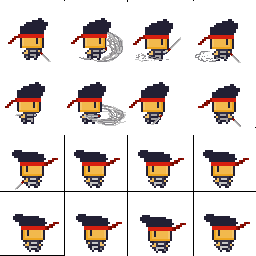
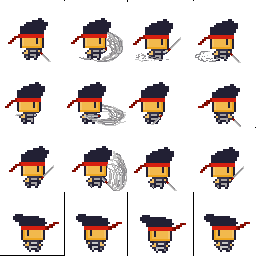
write code for downward swing, write code for moveset implementation, refactored some code to allow for better attack animation

Changed region(s): [[0.0, 0.5312, 1.0, 0.75]]

diff --git a/src/main.js b/src/main.js
@@ -1,5 +1,6 @@
 import { collisions , interacts} from "../data/collisions";
-import { Boundary, Sprite, Item } from "./classes";
+import { Boundary, Sprite } from "./classes";
+import { Moveset } from "./moveset";
 import { displayDialogue } from "./utils";
 
 const canvas = document.querySelector('canvas');
@@ -50,6 +51,9 @@ interactsMap.forEach((row, i) => {
             interactors.push(new Boundary({id: symbol ,position: {x: j*Boundary.width + offset.x, y: i*Boundary.height +offset.y}, context: context}))
     })
 })
+
+const basic = new Moveset({sequence:"illillill", sprite:attackImage})
+const test = new Moveset({sequence:'jkl', sprite:attackImage})
 
 const player = new Sprite({
     position: {
@@ -102,6 +106,19 @@ const keys = {
         pressed: false
     }
 }
+
+var pressed = ""
+
+function moveset({moveset}){
+    console.log(pressed)
+    const sequence = moveset.sequence
+    if ( sequence === pressed){
+        player.image = moveset.sprite
+        player.frames.valy = 3
+    }
+}
+
+
 const movables = [background, ...boundaries, foreground, ...interactors]
 const camera = [background,foreground]
 function rectCollision({rectangle1, rectangle2}){
@@ -124,6 +141,7 @@ function animate() {
     player.moving = false
     player.sizef.max = 0.25
     player.frames.max = 4
+    player.key = ''
     if ((keys.w.pressed) && (lastkey === 'w')) {
         player.image = playerImage
         player.moving = true
@@ -254,24 +272,31 @@ function animate() {
                 movable.position.y -= 3;
             })
         }
-    }else if (keys.i.pressed ){
+    }else if (keys.i.pressed && lastkey === 'i'){
         player.image = player.sprites
-        player.frames.valy = 0
-        player.frames.valx = 1
-        player.sizef.max = 0.25
+        player.key = 'i'
         
     }else if (keys.l.pressed ){
         player.image = player.sprites
-        player.frames.valy = 1
-        player.frames.valx = 1
-        player.sizef.max = 0.25
+        player.key = 'l'
+       
+    } else if (keys.k.pressed){
+        player.image = player.sprites
+        player.key = 'k'
+    }
+    if (pressed.length > 0){
+        const ms = moveset({moveset: basic})
+    }
+    if (pressed.length > 10){
+        pressed = ""
     }
 }
-let lastkey = "";
-animate()
-console.log('A')
-window.addEventListener('keydown', (e) => {
 
+
+animate()
+let lastkey = "";
+window.addEventListener('keydown', (e) => {
+    console.log(e)
     switch (e.key){
         case 'w':
         keys.w.pressed = true;
@@ -292,18 +317,25 @@ window.addEventListener('keydown', (e) => {
         case 'i':
         keys.i.pressed = true;
         lastkey = 'i';
+        pressed = 'i' + pressed
         break;
         case 'j':
         keys.j.pressed = true;
         lastkey = 'j';
+        pressed = 'j' + pressed
         break;
         case 'k':
         keys.k.pressed = true;
         lastkey = 'k';
+        pressed = 'k' + pressed
         break;
         case 'l':
         keys.l.pressed = true;
         lastkey = 'l';
+        pressed = 'l' + pressed
+        break;
+        case 'f':
+        pressed = ""
         break;
     }
 })
@@ -323,20 +355,28 @@ window.addEventListener('keyup', (e) => {
         keys.d.pressed = false;  
         break;
         case 'i':
-        keys.i.pressed = false;
-        lastkey = 'i';
+        setTimeout(() => {
+            keys.i.pressed = false,
+            lastkey = 'i'
+        }, 400)
         break;
         case 'j':
-        keys.j.pressed = false;
-        lastkey = 'j';
+        setTimeout(() => {
+            keys.j.pressed = false,
+            lastkey = 'j'
+        }, 400)
         break;
         case 'k':
-        keys.k.pressed = false;
-        lastkey = 'k';
+        setTimeout(() => {
+            keys.k.pressed = false,
+            lastkey = 'k'
+        }, 400)
         break;
         case 'l':
-        keys.l.pressed = false;
-        lastkey = 'l';
+        setTimeout(() => {
+            keys.l.pressed = false,
+            lastkey = 'l'
+        }, 400)
         break;
     }
 })

diff --git a/src/classes.js b/src/classes.js
@@ -30,7 +30,7 @@ export class Sprite {
             this.image.width * this.sizef.max,
             this.image.height * this.sizef.max, 
         );
-        if(!this.moving) {
+        if(!this.moving && this.key == '') {
             this.frames.valx = 0 
             return}
         if(this.key === 'w'){
@@ -69,6 +69,36 @@ export class Sprite {
             }
     
             if(this.frames.elapsed%20 === 0 ){
+                if (this.frames.valx < this.frames.max -1 ) this.frames.valx++
+                else this.frames.valx = 0
+            }
+        }else if (this.key === 'i'){
+            this.frames.valy = 0
+            if(this.frames.max > 1){
+                this.frames.elapsed++
+            }
+    
+            if(this.frames.elapsed%30 === 0 ){
+                if (this.frames.valx < this.frames.max -1 ) this.frames.valx++
+                else this.frames.valx = 0
+            }
+        }else if (this.key === 'l'){
+            this.frames.valy = 1
+            if(this.frames.max > 1){
+                this.frames.elapsed++
+            }
+    
+            if(this.frames.elapsed%30 === 0 ){
+                if (this.frames.valx < this.frames.max -1 ) this.frames.valx++
+                else this.frames.valx = 0
+            }
+        }else if (this.key === 'k'){
+            this.frames.valy = 2
+            if(this.frames.max > 1){
+                this.frames.elapsed++
+            }
+    
+            if(this.frames.elapsed%30 === 0 ){
                 if (this.frames.valx < this.frames.max -1 ) this.frames.valx++
                 else this.frames.valx = 0
             }

diff --git a/src/moveset.js b/src/moveset.js
@@ -1,0 +1,10 @@
+export class Moveset{
+    constructor({sequence, sprite}){
+        this.sequence = sequence
+        this.sprite = sprite
+    }
+}
+const attackImage = new Image();
+attackImage.src = './ATTACK.png'
+
+export const basic = new Moveset({sequence:['l','l','i'], sprite:attackImage})
